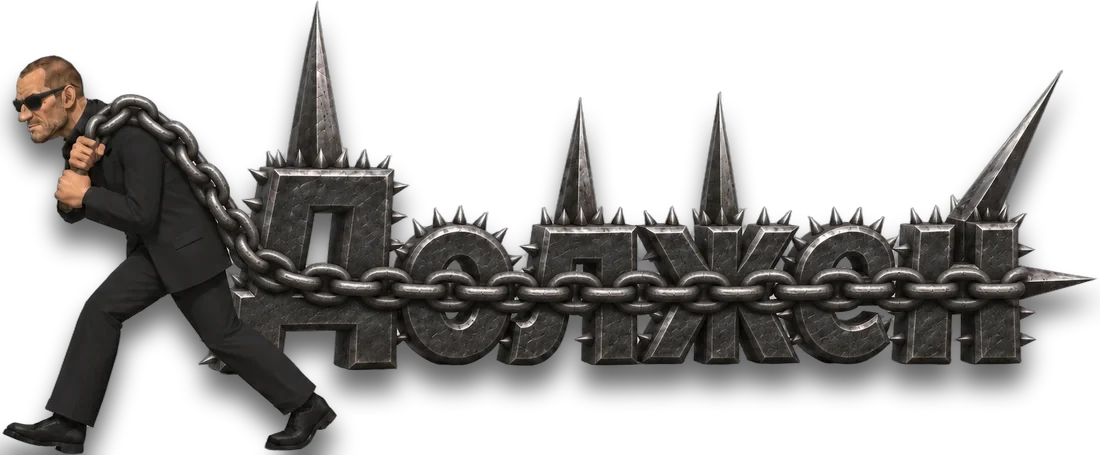
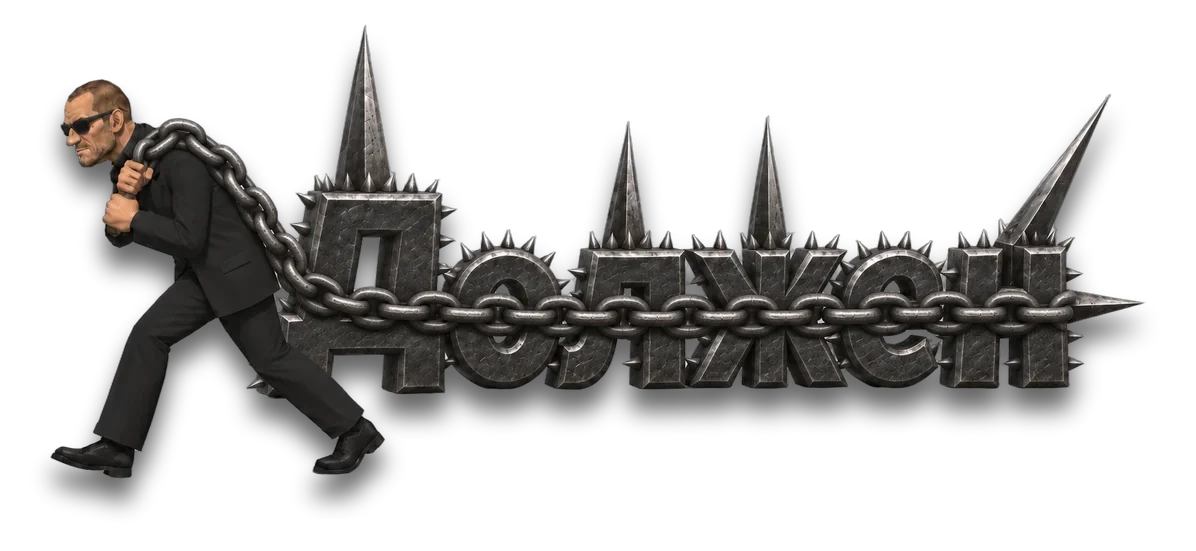
muzhik: тень героя не обрезается краями картинки (прозрачные поля), цитаты после ведущих

diff --git a/app/muzhik/page.tsx b/app/muzhik/page.tsx
@@ -149,26 +149,11 @@ export default function V2Page() {
                 </ul>
               </div>
               <div className="v2-hero__art" aria-hidden="true">
-                <img className="v2-hero__drag" src="/v2/drag-sh.webp" alt="" width={1100} height={455} fetchPriority="high" />
+                <img className="v2-hero__drag" src="/v2/drag-sh.webp" alt="" width={1196} height={551} fetchPriority="high" />
                 {SPIKES.map(([w, x, y, big, rot]) => (
                   <span key={w} className={big ? 'v2-spike' : 'v2-spike v2-spike--small'} style={{ left: `${x}%`, top: `${y}%`, rotate: `${rot}deg` }}>{w}</span>
                 ))}
               </div>
-            </div>
-          </section>
-
-          <section className="v2-section">
-            <div className="v2-wrap">
-              <h2 className="v2-h2">Мудрость, которую мы заслужили</h2>
-              <ul className="v2-quotes">
-                {QUOTES.map((q, i) => (
-                  <li className="v2-quote" key={q} style={{ rotate: `${i % 2 ? 0.8 : -0.8}deg` }}>
-                    <img className="v2-quote__face" src={`/v2/quote-${i + 1}.webp`} alt="" width={240} height={240} loading="lazy" />
-                    <p>«{q}»</p>
-                    <span>(с) Пацанская мудрость</span>
-                  </li>
-                ))}
-              </ul>
             </div>
           </section>
 
@@ -246,6 +231,21 @@ export default function V2Page() {
           <Program />
 
           <HostsV2 />
+
+          <section className="v2-section">
+            <div className="v2-wrap">
+              <h2 className="v2-h2">Мудрость, которую мы заслужили</h2>
+              <ul className="v2-quotes">
+                {QUOTES.map((q, i) => (
+                  <li className="v2-quote" key={q} style={{ rotate: `${i % 2 ? 0.8 : -0.8}deg` }}>
+                    <img className="v2-quote__face" src={`/v2/quote-${i + 1}.webp`} alt="" width={240} height={240} loading="lazy" />
+                    <p>«{q}»</p>
+                    <span>(с) Пацанская мудрость</span>
+                  </li>
+                ))}
+              </ul>
+            </div>
+          </section>
 
           <section className="v2-section">
             <div className="v2-wrap">

diff --git a/app/muzhik/v2.css b/app/muzhik/v2.css
@@ -143,7 +143,9 @@ html:has(.v2) { scroll-behavior: smooth; }
 }
 
 .v2-hero__art { position: relative; }
-.v2-hero__drag { display: block; width: 100%; max-width: none; height: auto; } /* тень запечена в картинку: CSS drop-shadow на движущейся картинке iOS Safari рисует серым прямоугольником */
+/* тень запечена в картинку (CSS drop-shadow на iPhone обрезался по краям картинки прямоугольником); вокруг
+   рисунка 1100×455 прозрачные поля 48/48/24/72 px под тень — выносим их за рамку, чтобы таблички (в % от рисунка) стояли на месте */
+.v2-hero__drag { display: block; width: calc(100% * 1196 / 1100); max-width: none; height: auto; margin: calc(-100% * 24 / 1100) 0 calc(-100% * 72 / 1100) calc(-100% * 48 / 1100); }
 /* деревянные таблички на шипах «Должен»: размер от ширины картинки (cqi), чтобы не наезжали друг на друга */
 .v2-hero__art { container-type: inline-size; }
 .v2-spike {
